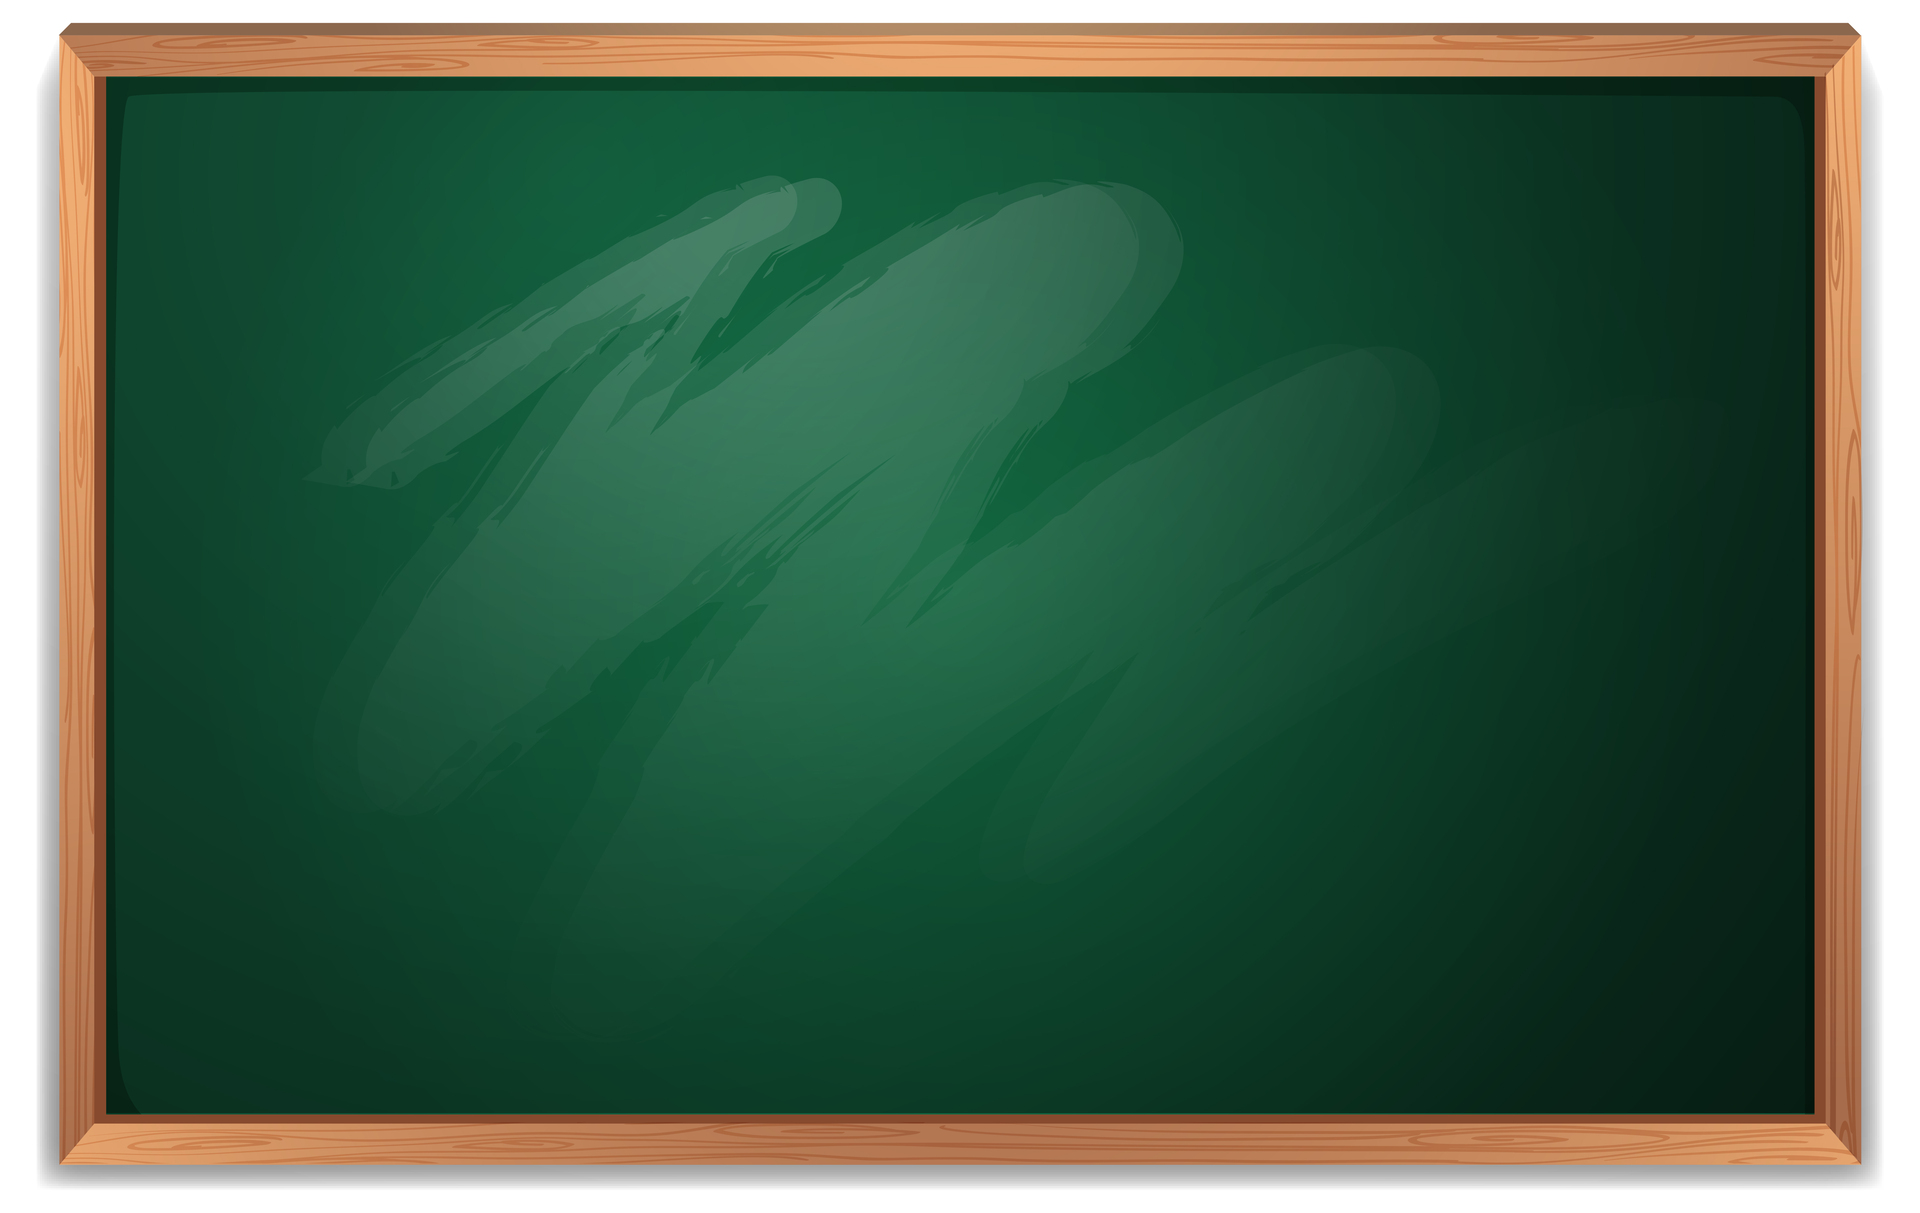
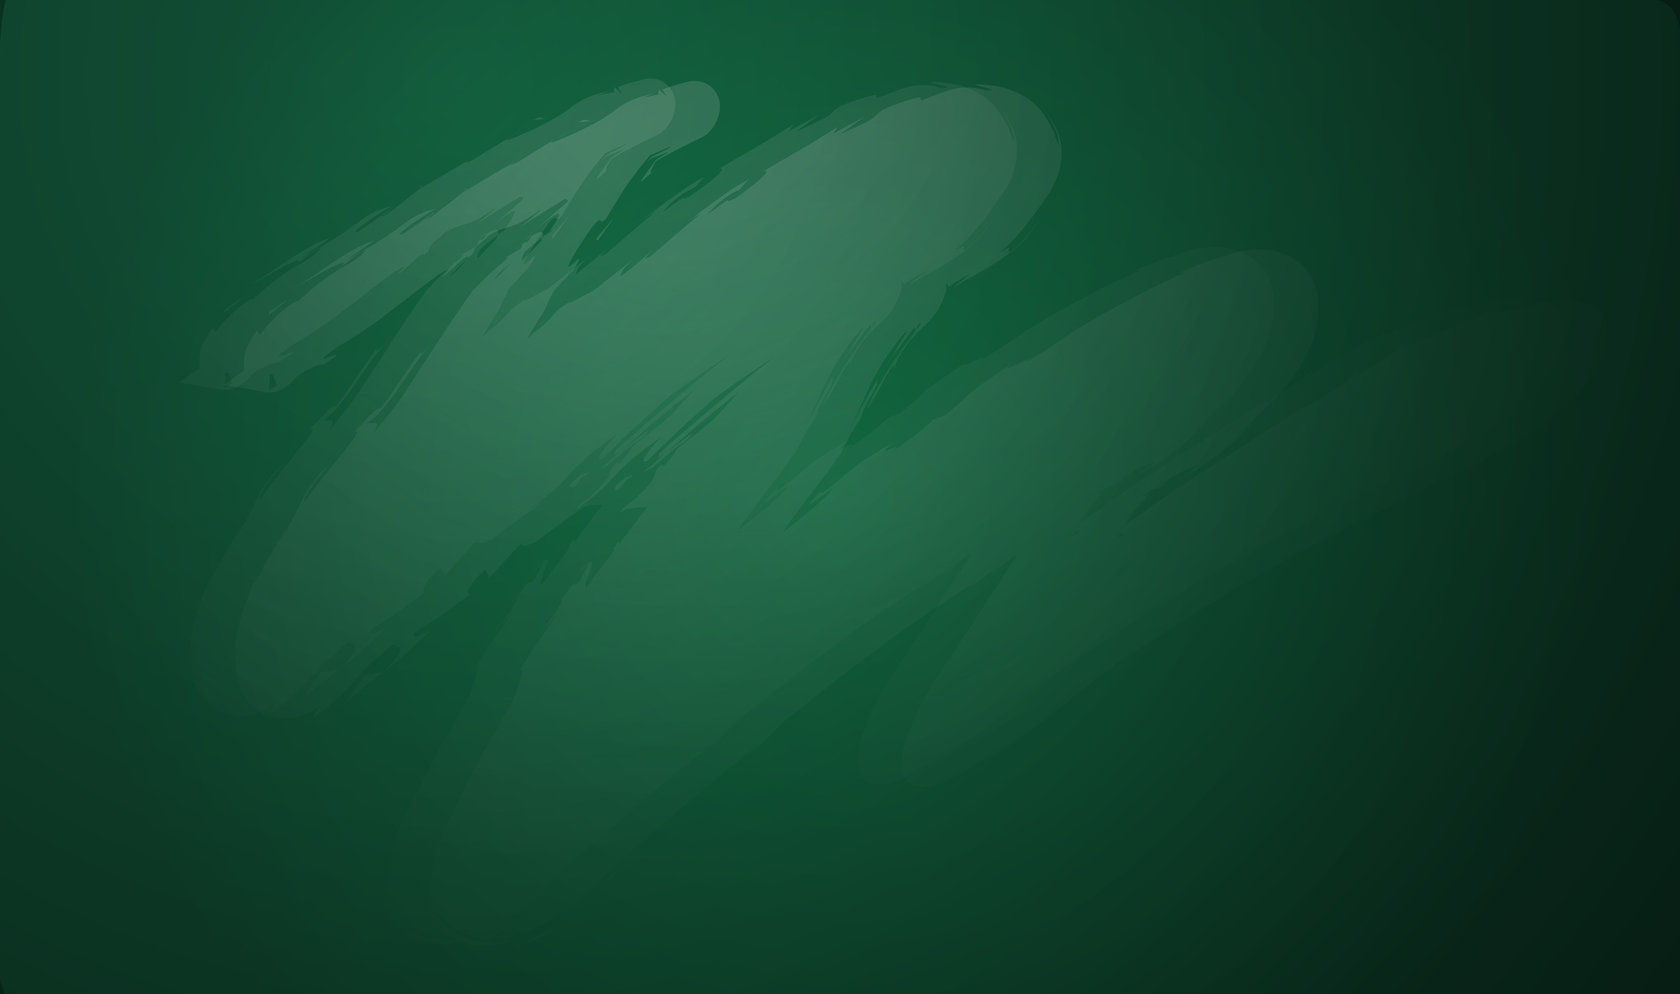
Cambios css para las notas

Changed region(s): [[0.0, 0.0, 1.0, 1.0], [0.1238, 0.3431, 0.1548, 0.3742]]

diff --git a/src/components/Note/Note.css b/src/components/Note/Note.css
@@ -3,44 +3,38 @@
 .note {
     text-align: center;
     position: relative;
-    display: inline-block;
+    flex: none;
+    width: calc((100% - 2%) / 6);
+    margin-bottom: 30px;
 }
 
 .note-content {
     font-family: 'Annie Use Your Telescope', cursive;
+    font-size: 100%;
+    font-weight: 600;
     position: absolute;
     top: 0;
     left: 10%;
     width: 80%;
     height: 100%;
+    overflow: auto;
 }
 
-@media only screen and (max-width: 600px) {
-    .note {
-        /* Write styles for .note class for screens smaller than 600px */
-    }
 
-    .note-content {
-        /* Write styles for .note-content class for screens smaller than 600px */
+@media screen and (max-width: 600px) {
+    .note {
+        width: calc((100% - 2%) / 1);
     }
 }
 
 @media only screen and (min-width: 601px) and (max-width: 1024px) {
     .note {
-        /* Write styles for .note class for screens between 601px and 1024px */
-    }
-
-    .note-content {
-        /* Write styles for .note-content class for screens between 601px and 1024px */
+        width: calc((100% - 2%) / 3);
     }
 }
 
-@media only screen and (min-width: 1025px) {
+@media only screen and (min-width: 1025px) and (max-width: 1440px) {
     .note {
-        /* Write styles for .note class for screens larger than 1025px */
-    }
-
-    .note-content {
-        /* Write styles for .note-content class for screens larger than 1025px */
+        width: calc((100% - 2%) / 4);
     }
 }

diff --git a/src/components/Note/Note.jsx b/src/components/Note/Note.jsx
@@ -1,17 +1,21 @@
 import './Note.css';
 function Note() {
+  const titulo = 'Receta pasta';
+
   return (
     <div className="note">
       <img src="./img/note/note.png" alt="" />
+
       <div className="note-content">
-        <h2>Receta pasta flora</h2>
+        <h2>{titulo}</h2>
         <p>
-          Ingredientes:
-          <ul>
-            <li>1/2 taza de tomate picado</li>
-            <li>1/2 taza de cebolla picada</li>
-            <li>1/2 taza de jitomate picado</li>
-          </ul>
+          Lorem ipsum dolor sit amet consectetur adipisicing elit. Quam eos enim
+          deserunt consequatur iure explicabo, provident eveniet odio ea quasi
+          odit quo fugit similique quidem molestiae cum tempora nam sunt. Lorem
+          ipsum dolor sit, amet consectetur adipisicing elit. Necessitatibus
+          quibusdam voluptatum, consequatur minima nemo voluptates suscipit
+          excepturi provident ipsum, ullam rerum? Dolor, eius aliquid! Cumque
+          dolor nostrum voluptate minima adipisci.
         </p>
       </div>
     </div>

diff --git a/src/App.css b/src/App.css
@@ -1,17 +1,31 @@
-.App {
+html,
+body {
+    margin: 0;
+    padding: 0;
     background-image: url('./img/pizzarra/pizzarra.png');
     background-repeat: no-repeat;
     background-size: cover;
+    background-attachment: fixed;
+}
+
+
+
+.notasContainer {
     width: 100vw;
-    height: 100vh;
-    padding-top: 12%;
-    padding-left: 15%;
+    margin: auto;
+    display: flex;
+    flex-wrap: wrap;
+    justify-content: space-around;
+
 }
 
 @media only screen and (max-width: 600px) {
     .App {
+        background-size: cover;
         width: 100vw;
-        height: 100vh;
-
     }
+
+
 }
+
+@media only screen and (max-width: 1200px) {}

diff --git a/src/App.jsx b/src/App.jsx
@@ -4,7 +4,21 @@ import Note from './components/Note/Note';
 function App() {
   return (
     <div className="App">
-      <Note />
+      <div className="notasContainer">
+        <Note />
+        <Note />
+        <Note />
+        <Note />
+        <Note />
+        <Note />
+        <Note />
+        <Note />
+        <Note />
+        <Note />
+        <Note />
+        <Note />
+        <Note />
+      </div>
     </div>
   );
 }
